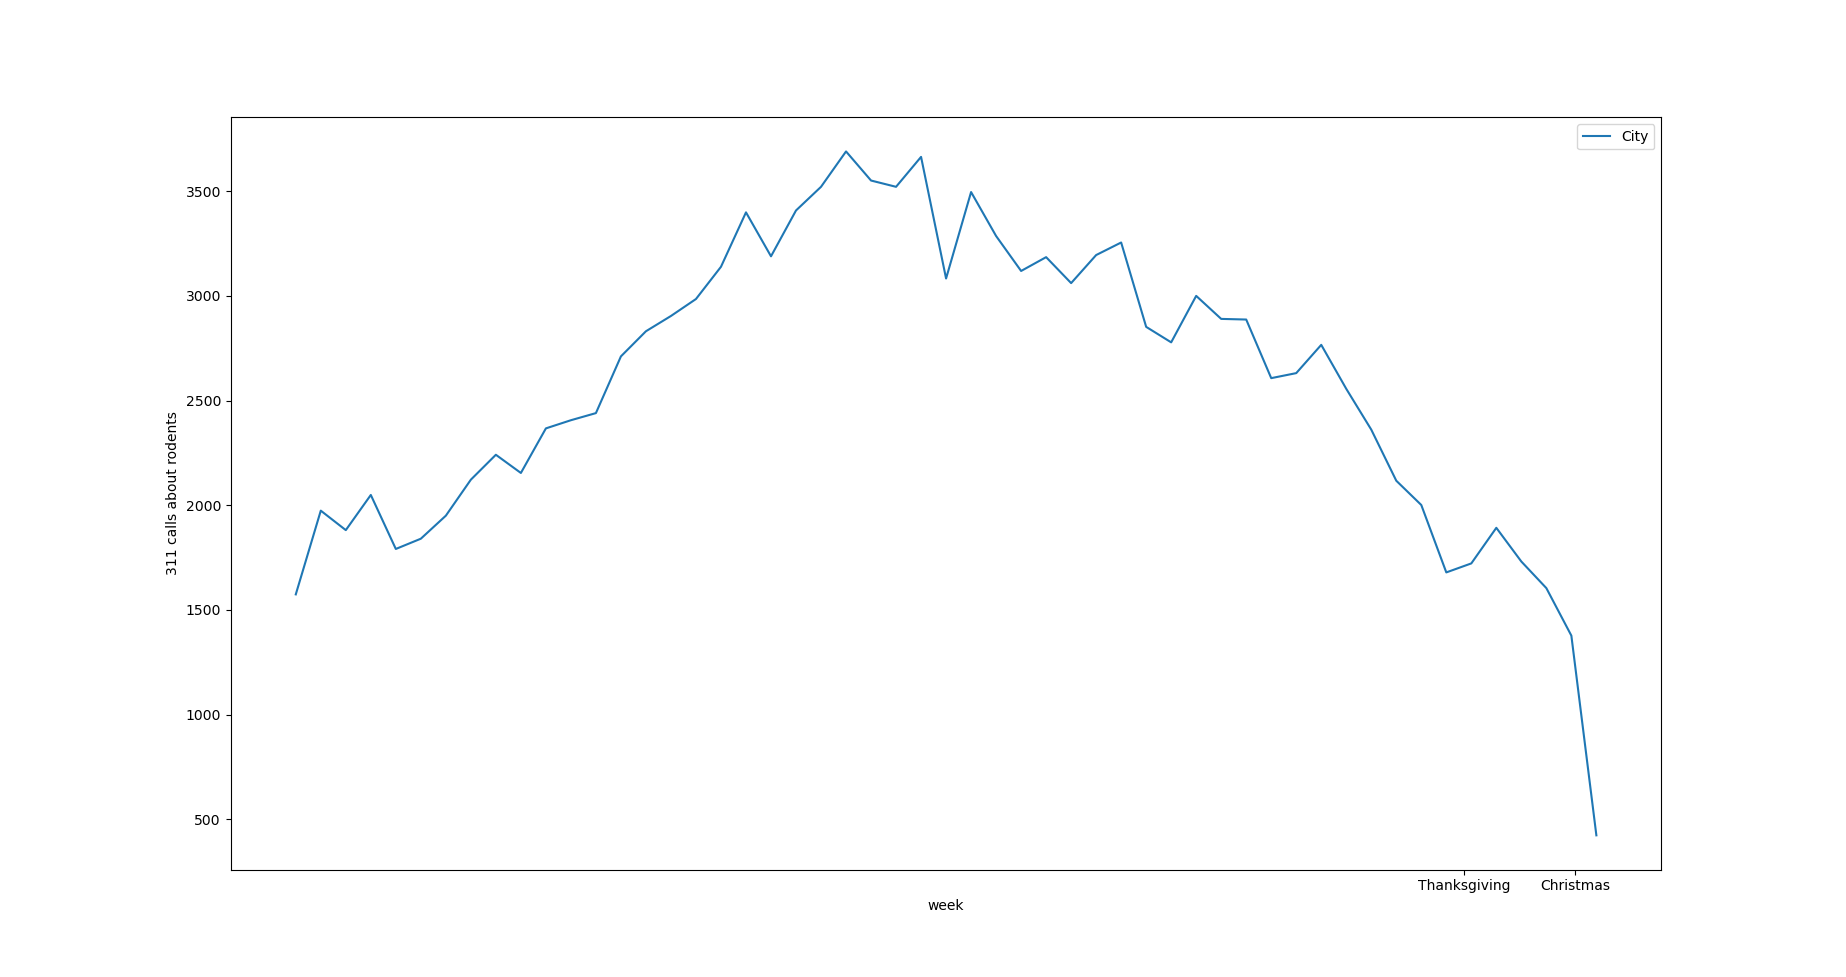
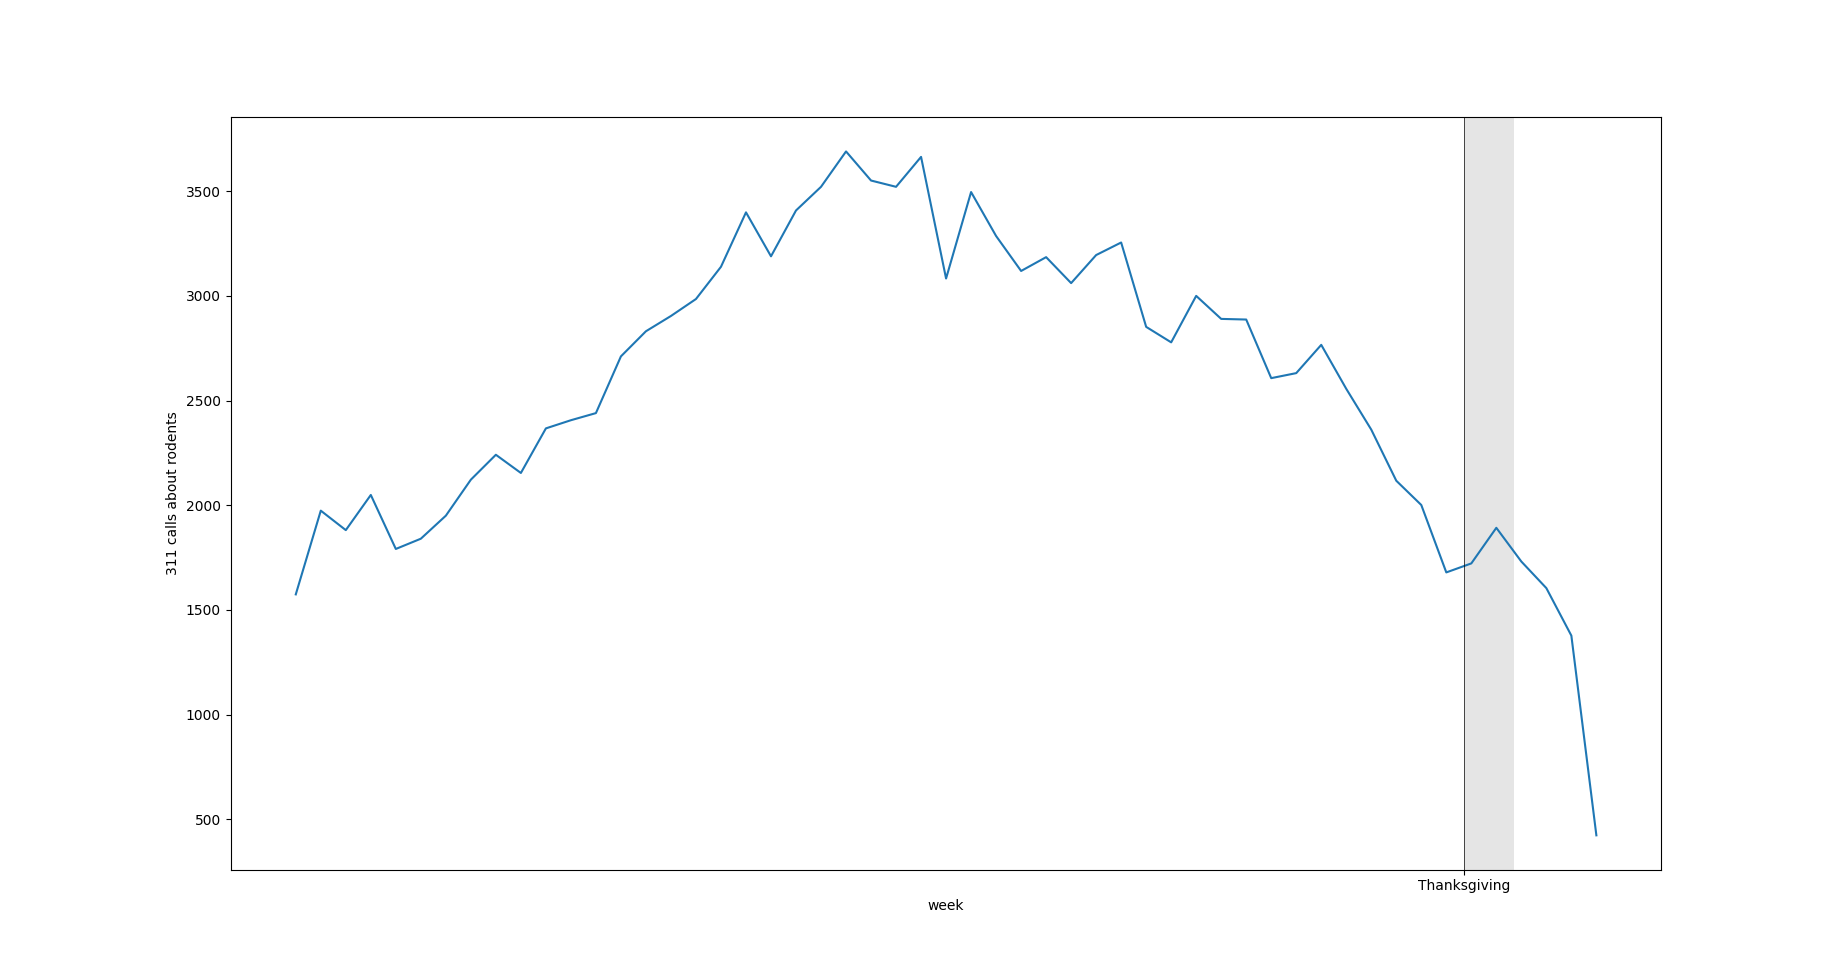
changes to mosd exam plot

Changed region(s): [[0.7719, 0.1228, 0.8337, 0.8905], [0.8646, 0.1228, 0.8954, 0.1535], [0.8337, 0.8905, 0.8646, 0.9212]]

diff --git a/Semester 2/Management of Scientific Data/exam/rodents.py b/Semester 2/Management of Scientific Data/exam/rodents.py
@@ -27,9 +27,12 @@ df = df[df['City'] == 'brooklyn']
 
 ## Plot
 month_counts = df.groupby('week').count()
-ax = month_counts.plot.line()
+fig, ax = plt.subplots(1, 1)
+ax.plot(month_counts, linewidth=1.5)
 ax.set_xlabel('week')
 ax.set_ylabel('311 calls about rodents')
-ax.set_xticks([327 / 7, 358 / 7])
-ax.set_xticklabels(['Thanksgiving', 'Christmas'])
+ax.set_xticks([327 / 7])
+ax.set_xticklabels(['Thanksgiving',])
+ax.axvline(x=327 / 7, color='black', linewidth=0.5)
+ax.axvspan(327/7, (327+14)/7, color='black', alpha=0.1, lw=0)
 plt.show()
